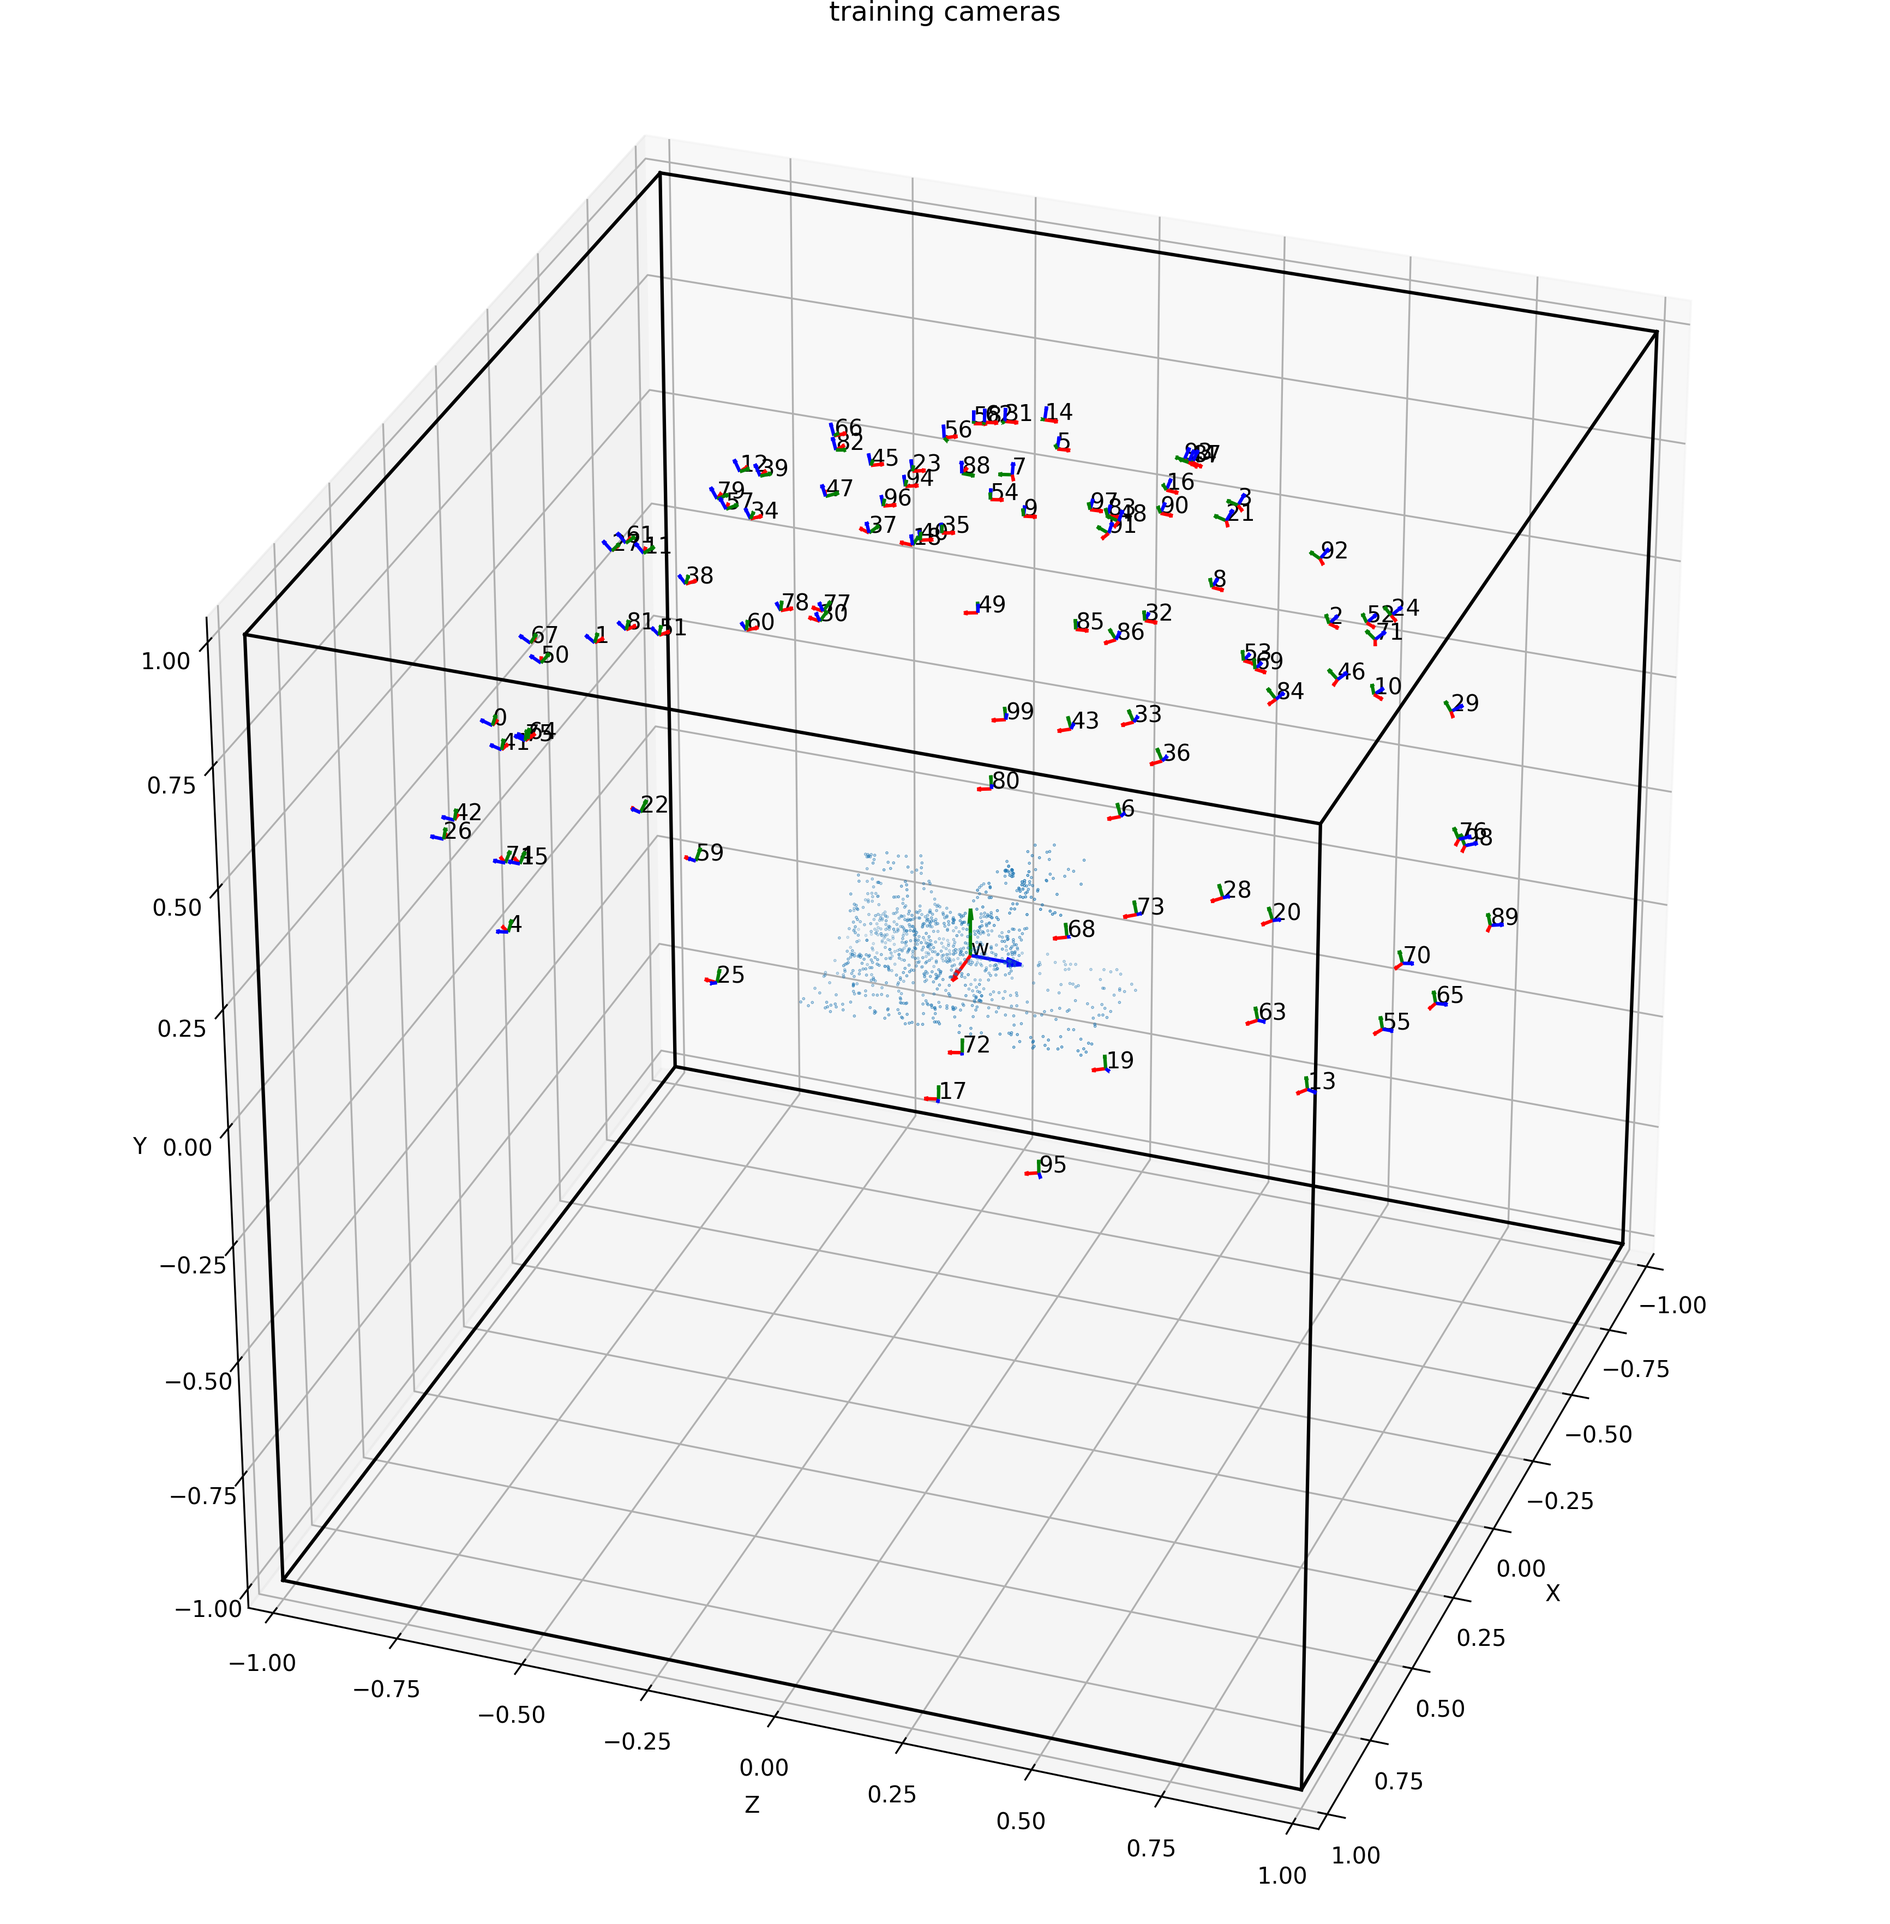
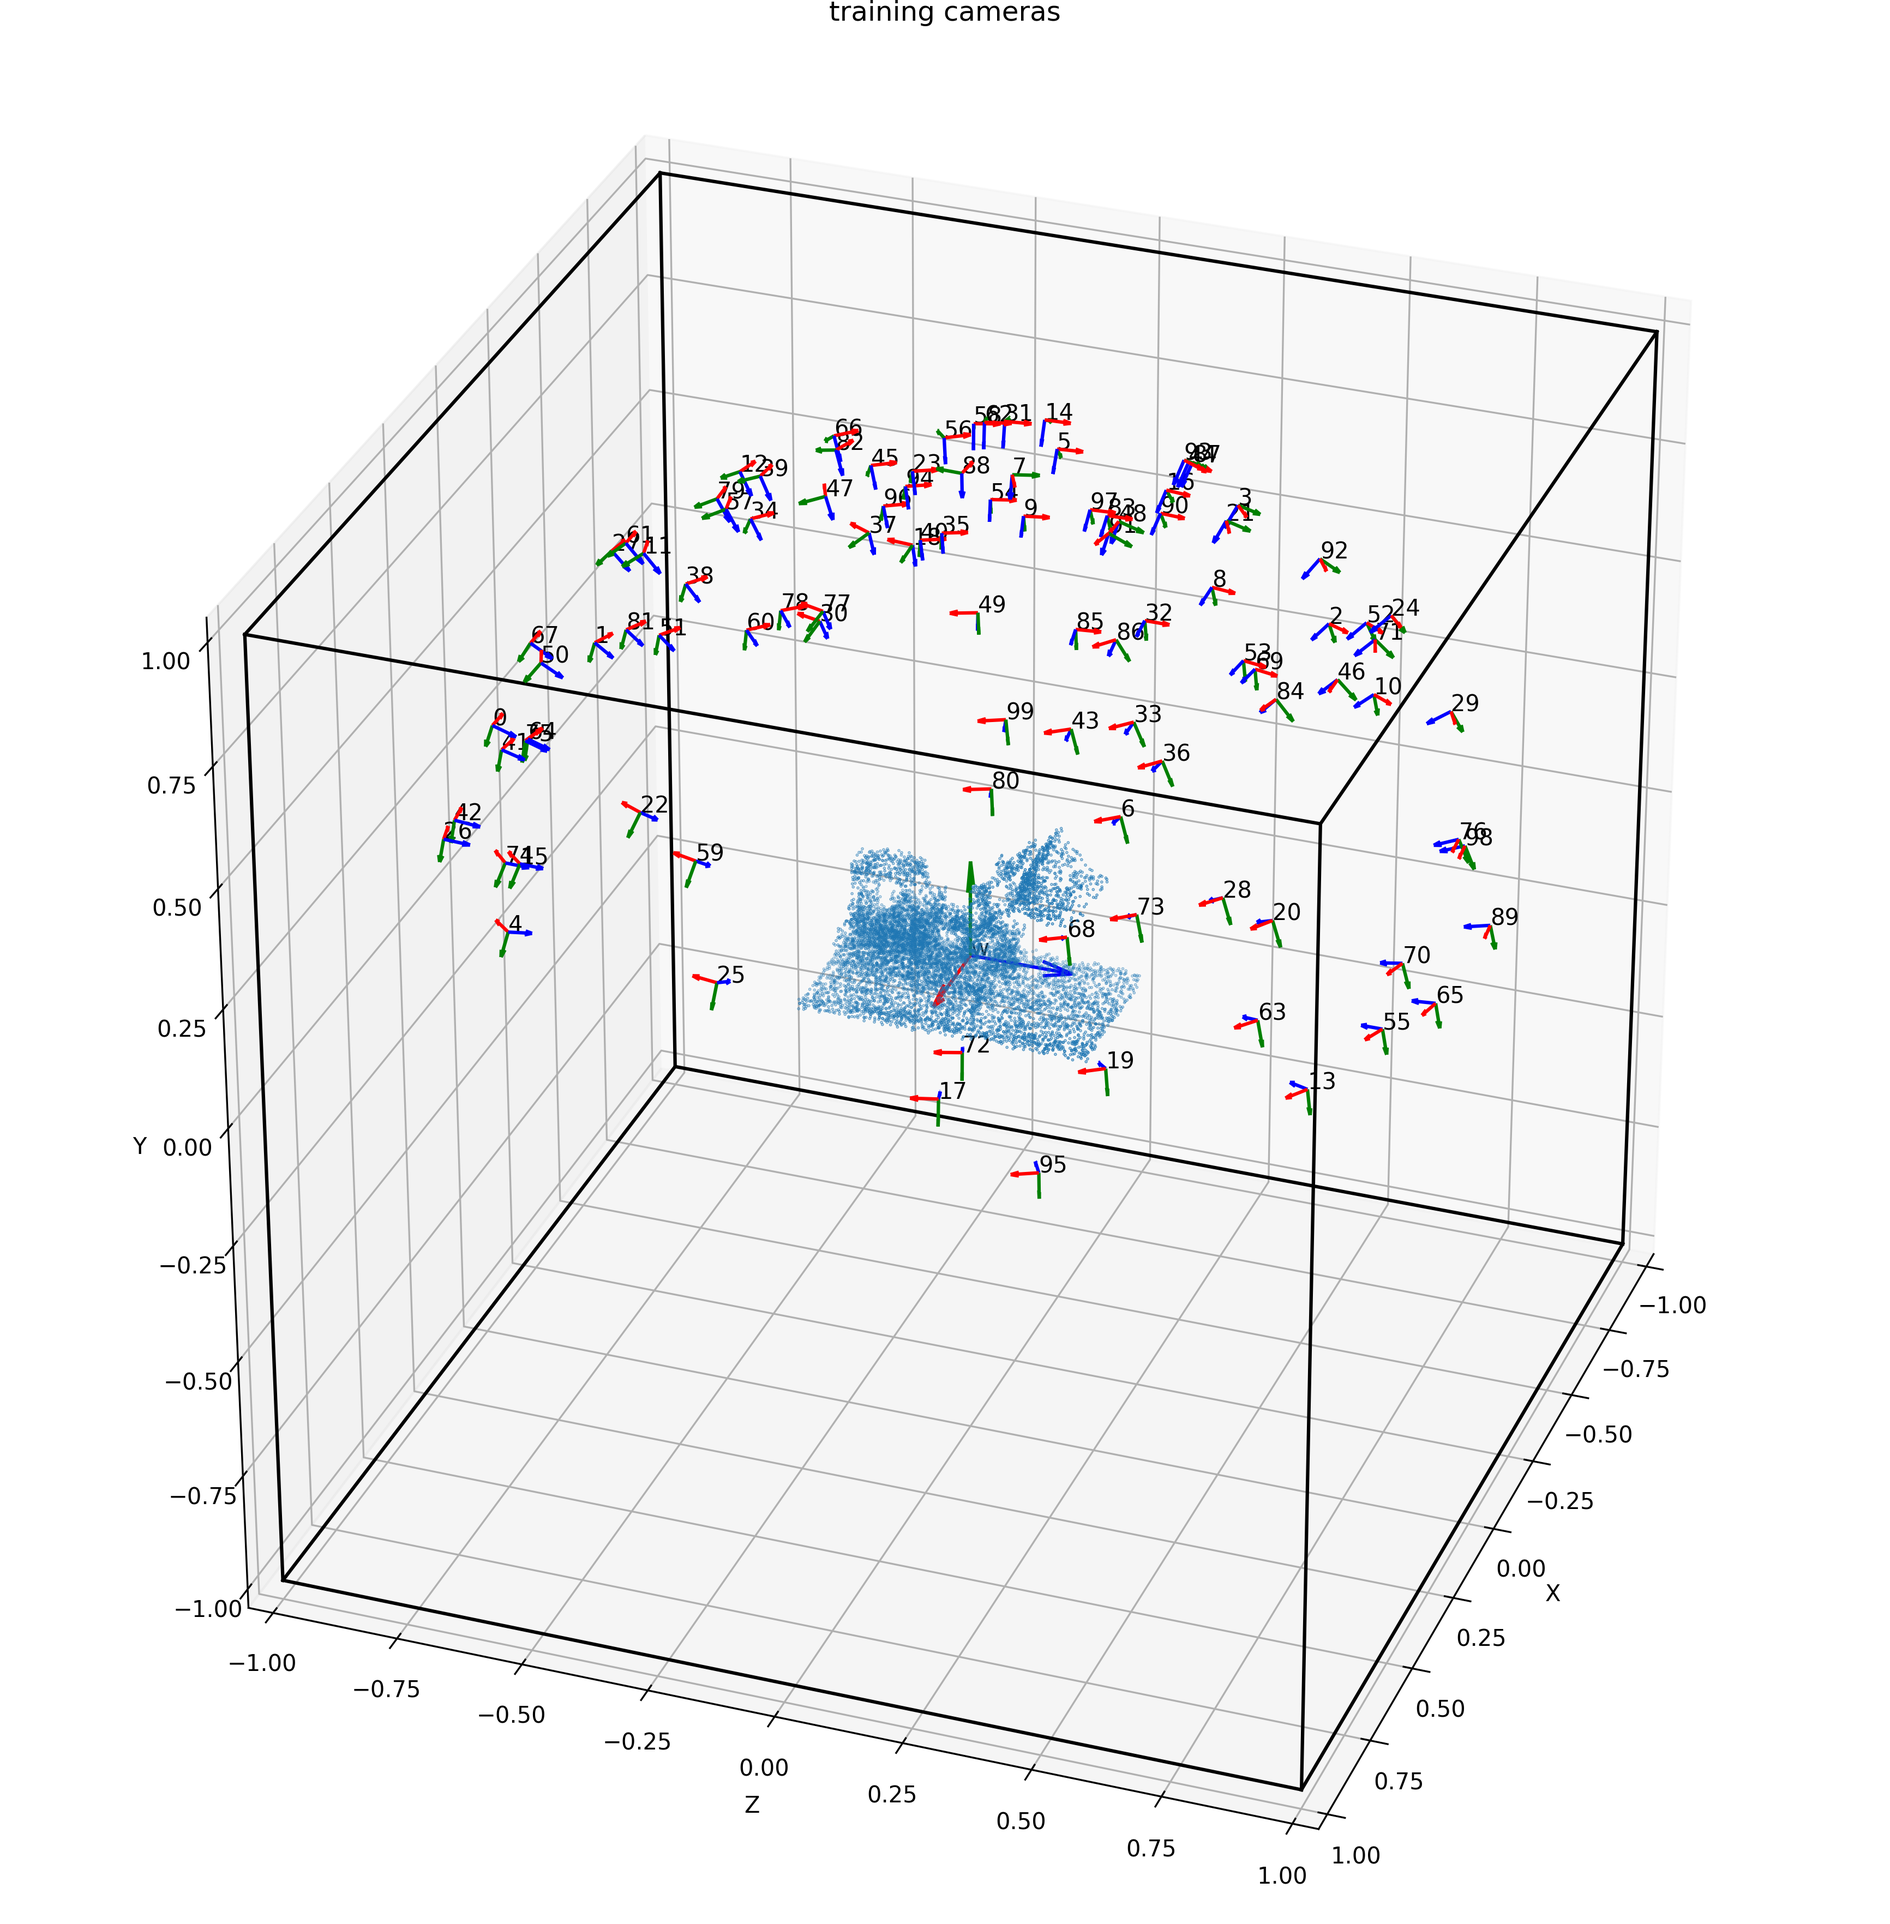
fixed blender local transform

diff --git a/tests/reproject_points.py b/tests/reproject_points.py
@@ -31,24 +31,28 @@ torch.set_default_dtype(torch.float32)
 profiler = Profiler()  # nb: might slow down the code
 
 datasets_path = "/home/stefano/Data"
-dataset_names = ["dtu", "blender"]
-scene_names = ["dtu_scan83", "lego"]
+# dataset_names = ["dtu", "blender"]
+# scene_names = ["dtu_scan83", "lego"]
+dataset_names = ["blender"]
+scene_names = ["lego"]
 
 for dataset_name, scene_name in zip(dataset_names, scene_names):
 
-    # load gt mesh if exists
-    gt_meshes_paths = [os.path.join("debug/meshes/", dataset_name, scene_name, "mesh.ply")]
+    # load gt point cloud if exists
+    gt_point_clouds_paths = [os.path.join("debug/point_clouds/", dataset_name, f"{scene_name}.ply")]
 
     # dataset loading
     mv_data = MVDataset(
         dataset_name,
         scene_name,
         datasets_path,
-        point_clouds_paths=gt_meshes_paths,
+        point_clouds_paths=gt_point_clouds_paths,
         splits=["train", "test"]
     )
 
-    camera = deepcopy(mv_data["test"][0])
+    # random camera index
+    rand_idx = torch.randint(0, len(mv_data["test"]), (1,)).item()
+    camera = deepcopy(mv_data["test"][rand_idx])
     print(camera)
 
     point_cloud = mv_data.point_clouds[0]

diff --git a/tests/train_test_splits.py b/tests/train_test_splits.py
@@ -45,20 +45,22 @@ torch.set_default_dtype(torch.float32)
 profiler = Profiler()  # nb: might slow down the code
 
 datasets_path = "/home/stefano/Data"
-dataset_names = ["dtu", "blender"]
-scene_names = ["dtu_scan83", "lego"]
+# dataset_names = ["dtu", "blender"]
+# scene_names = ["dtu_scan83", "lego"]
+dataset_names = ["blender"]
+scene_names = ["lego"]
 
 for dataset_name, scene_name in zip(dataset_names, scene_names):
 
-    # load gt mesh if exists
-    gt_meshes_paths = [os.path.join("debug/meshes/", dataset_name, scene_name, "mesh.ply")]
+    # load gt point cloud if exists
+    gt_point_clouds_paths = [os.path.join("debug/point_clouds/", dataset_name, f"{scene_name}.ply")]
 
     # dataset loading
     mv_data = MVDataset(
         dataset_name,
         scene_name,
         datasets_path,
-        point_clouds_paths=gt_meshes_paths,
+        point_clouds_paths=gt_point_clouds_paths,
         splits=["train", "test"]
     )
 

diff --git a/mvdatasets/utils/point_clouds.py b/mvdatasets/utils/point_clouds.py
@@ -3,7 +3,7 @@ import os
 import numpy as np
 
 
-def load_point_clouds(point_clouds_paths, max_nr_points=1000):
+def load_point_clouds(point_clouds_paths, max_nr_points=10000):
     """Loads point cloud from files.
     If the file is a mesh, points are its vertices.
 
@@ -31,7 +31,7 @@ def load_point_clouds(point_clouds_paths, max_nr_points=1000):
                     )
                     points_3d = points_3d[random_idx]
                     point_clouds.append(points_3d)
-                print("loaded {} points from mesh".format(points_3d.shape[0]))
+                print("loaded {} points".format(points_3d.shape[0]))
             else:
                 raise ValueError("unsupported point cloud format")
         else:

diff --git a/mvdatasets/scenes/camera.py b/mvdatasets/scenes/camera.py
@@ -102,7 +102,7 @@ class Camera:
 
     def get_pose(self):
         """returns camera pose in world space"""
-        pose = self.global_transform @ self.pose
+        pose = self.global_transform @ self.pose @ self.local_transform
         return pose
 
     def concat_global_transform(self, global_transform):
@@ -154,6 +154,8 @@ class Camera:
         string += str(self.pose) + "\n"
         string += "global_transform:\n"
         string += str(self.global_transform) + "\n"
+        string += "local_transform:\n"
+        string += str(self.local_transform) + "\n"
         string += "imgs:\n"
         string += str(self.imgs.shape) + "\n"
         if self.has_masks:

diff --git a/mvdatasets/loaders/blender.py b/mvdatasets/loaders/blender.py
@@ -36,6 +36,11 @@ def load_blender(
     s_rotation = scene_scale_mult * rotation
     global_transform[:3, :3] = s_rotation
     
+    # local transform
+    local_transform = np.eye(4)
+    rotation = rot_x_3d(deg2rad(180))
+    local_transform[:3, :3] = rotation
+    
     # cameras objects
     cameras_splits = {}
     for split in splits:
@@ -132,6 +137,7 @@ def load_blender(
                 intrinsics=intrinsics,
                 pose=pose,
                 global_transform=global_transform,
+                local_transform=local_transform,
                 imgs=cam_imgs,
                 masks=cam_masks,
                 camera_idx=idx,

diff --git a/mvdatasets/utils/plotting.py b/mvdatasets/utils/plotting.py
@@ -43,7 +43,7 @@ def plot_cameras(
     camera_centers = poses[:, :3, 3]
 
     scene_radius = np.max(np.linalg.norm(camera_centers, axis=1))
-    scale = scene_radius * 0.1
+    scale = scene_radius * 0.2
 
     fig = plt.figure(figsize=figsize)
     
